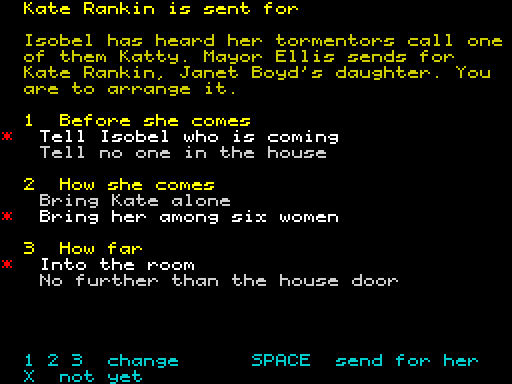
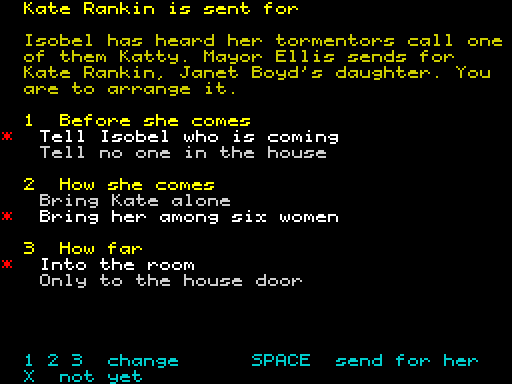
Play-test fixes: C compare lit once two lines are marked; parade option shortened for Kate's portrait; notes

Changed region(s): [[0.0625, 0.7188, 0.375, 0.75], [0.4062, 0.7188, 0.6562, 0.75], [0.6875, 0.7188, 0.7812, 0.75]]

diff --git a/data/night1.py b/data/night1.py
@@ -124,7 +124,7 @@ NIGHT = {
             "where": ("How far", [
                 ("room",  "Into the room",
                           "You have her brought into the room where Isobel lies."),
-                ("door",  "No further than the house door",
+                ("door",  "Only to the house door",
                           "You have her kept at the house door.")]),
         },
         "always": "As soon as Kate comes to the house, Isobel's pains seize her, with a great "

diff --git a/NOTES.md b/NOTES.md
@@ -103,6 +103,17 @@ get a "needs a 128K" message.
   clerk, mouth level, tired. Not a monster, not a saint. 367 bytes packed.
   The Night One card's text moved down 4 rows (title row 13).
 
+### From the first play-test (v0.6)
+
+- The tester marked the two knot lines but may not have seen "Two lines
+  marked. C compares them." (row 20, the same yellow as the statement).
+  Now it is bright white, and `ckeys` makes "C  compare" in the key help
+  flash bright white while two lines are marked and there is candle left
+  (plain again when the candle is out, so it never invites a compare that
+  can't happen). Called after the page's key help is drawn and after M.
+- The parade option "No further than the house door" is now "Only to the
+  house door", leaving columns 22-31 clear for Kate's portrait.
+
 ## Build
 
 Python 3 with Pillow, `pasmo`, a C compiler (`cc`, builds tools/zx0 once).
@@ -263,9 +274,8 @@ Willson -> John Wilson, Donaldson -> Hugh Gilmour.
    night's finding flags, about 16 bytes a night, after its buffer goes).
 3. Portraits (Isobel first), hand-checked for the "human, not monstrous"
    rule: the accused's scars are never the scary part. Isobel on the
-   Night One card under way (v0.6); next Kate Rankin on the parade's
-   arranging screen (cols 22-31, rows 6-17: "No further than the house
-   door" runs to column 24 and needs shortening).
+   Night One card done (v0.6); next Kate Rankin on the parade's
+   arranging screen (cols 22-31, rows 6-17; the long option is shortened).
    Decided (26 Nov, from play-testing): the clerk is never told how many
    findings there are, or that he has found them all. Not knowing what he
    missed is the clerk's position; the book is the only record.
@@ -298,6 +308,10 @@ Willson -> John Wilson, Donaldson -> Hugh Gilmour.
 4. Banks and the boot stub; AY music (a slow theme, a church-bell tone).
 
 ## Testing
+
+v0.6: apron.keys also shoots frame 1400, just after the second mark (the
+bright message, "C  compare" lit); the candle test shows it plain once the
+candle is out; the parade's arranging screen has the shorter option.
 
 v0.5: candle.keys compares two lines of Dickey's statement 16 times
 (nothing found), shows the 16th burning the last of it, then C refused
